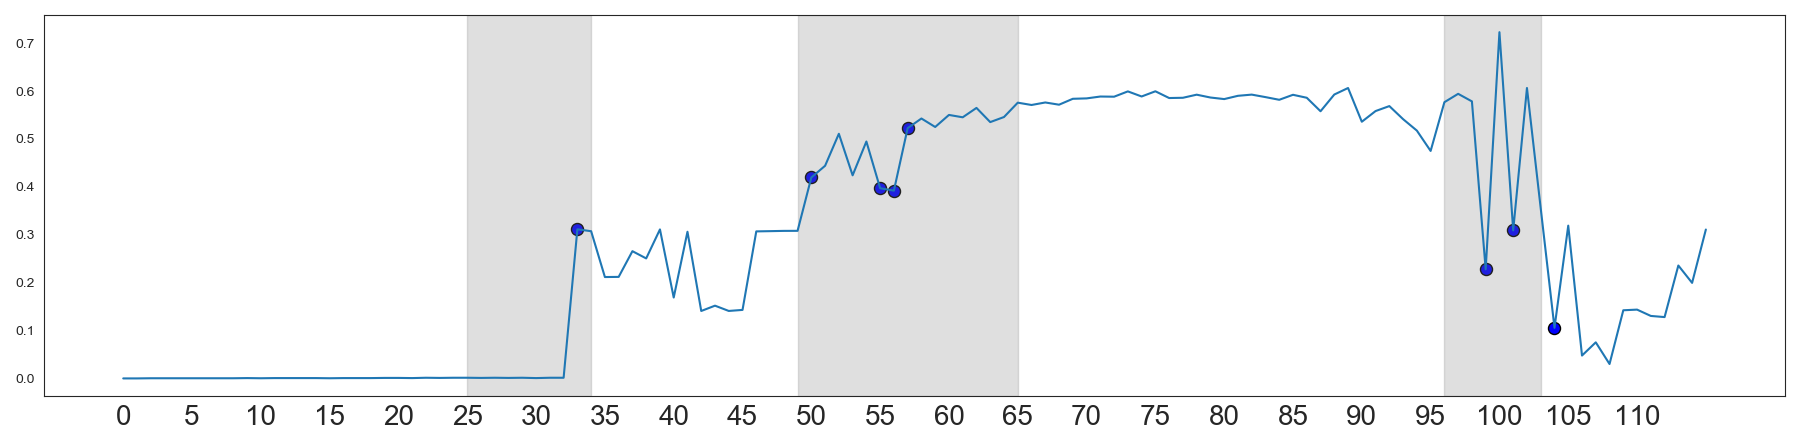
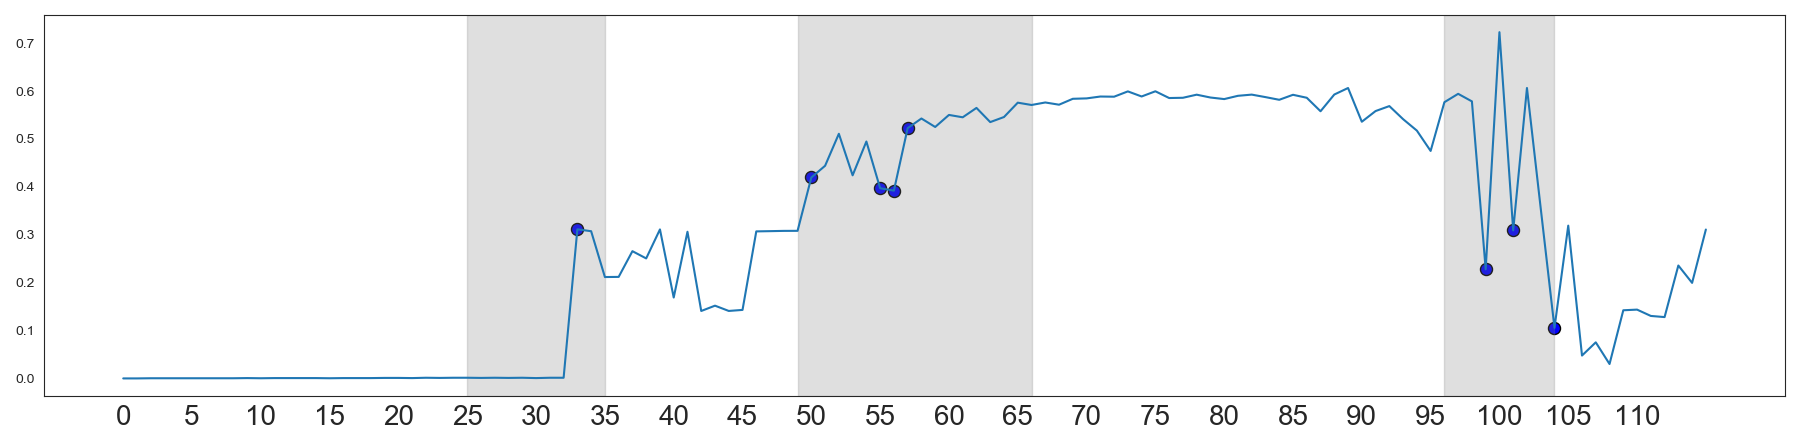
redo extrap figures

Changed region(s): [[0.84, 0.0291, 0.8711, 0.9036], [0.56, 0.0291, 0.5911, 0.9036], [0.3111, 0.0291, 0.3422, 0.9036]]

diff --git a/Emily Code/8.4.20_node_identification.py b/Emily Code/8.4.20_node_identification.py
@@ -298,27 +298,27 @@ xticks = np.arange(0,115,5)
 fig, ax = plt.subplots(figsize = (18,4.5))
 ax.plot(pval_849)
 ax.scatter(mutation_x, [pval_849[i] for i in mutation_x], c = 'blue', s = 75, edgecolor = 'k')
-ax.axvspan(25, 34, alpha = 0.25, color = 'grey')
-ax.axvspan(49, 65, alpha = 0.25, color='grey')
-ax.axvspan(96, 103, alpha = 0.25, color='grey')
+ax.axvspan(25, 35, alpha = 0.25, color = 'grey')
+ax.axvspan(49, 66, alpha = 0.25, color='grey')
+ax.axvspan(96, 104, alpha = 0.25, color='grey')
 plt.xticks(ticks = xticks, fontsize = 20)
 plt.tight_layout()
 
 fig, ax = plt.subplots(figsize = (18,4.5))
 ax.plot(pval_1146, c = 'darkorange')
 ax.scatter(mutation_x, [pval_1146[i] for i in mutation_x], c = 'orange', s = 75, edgecolor = 'k')
-ax.axvspan(25, 34, alpha = 0.25, color = 'grey')
-ax.axvspan(49, 65, alpha = 0.25, color='grey')
-ax.axvspan(96, 103, alpha = 0.25, color='grey')
+ax.axvspan(25, 35, alpha = 0.25, color = 'grey')
+ax.axvspan(49, 66, alpha = 0.25, color='grey')
+ax.axvspan(96, 104, alpha = 0.25, color='grey')
 plt.xticks(ticks = xticks, fontsize = 20)
 plt.tight_layout()
 
 fig, ax = plt.subplots(figsize = (18,4.5))
 ax.plot(pval_1899, c = 'green')
 ax.scatter(mutation_x, [pval_1899[i] for i in mutation_x], c = 'green', s = 75, edgecolor = 'k')
-ax.axvspan(25, 34, alpha = 0.25, color = 'grey')
-ax.axvspan(49, 65, alpha = 0.25, color='grey')
-ax.axvspan(96, 103, alpha = 0.25, color='grey')
+ax.axvspan(25, 35, alpha = 0.25, color = 'grey')
+ax.axvspan(49, 66, alpha = 0.25, color='grey')
+ax.axvspan(96, 104, alpha = 0.25, color='grey')
 plt.xticks(ticks = xticks, fontsize = 20)
 plt.tight_layout()
 
@@ -326,31 +326,31 @@ plt.tight_layout()
 #%%
 xticks = np.arange(0,115,5)
 fig, ax = plt.subplots(figsize = (18,4.5))
-ax.bar(np.arange(0,115), pval_849_diff)
-ax.scatter(mutation_x_diff, [pval_849_diff[i-1] for i in mutation_x], s = 100, c = 'red', edgecolor = 'k', zorder = 25)
-ax.axvspan(25, 34, alpha = 0.25, color = 'grey')
-ax.axvspan(49, 65, alpha = 0.25, color='grey')
-ax.axvspan(96, 103, alpha = 0.25, color='grey')
+ax.bar(np.arange(1,116), pval_849_diff)
+ax.scatter(mutation_x, [pval_849_diff[i-1] for i in mutation_x], s = 100, c = 'red', edgecolor = 'k', zorder = 25)
+ax.axvspan(25, 35, alpha = 0.25, color = 'grey')
+ax.axvspan(49, 66, alpha = 0.25, color='grey')
+ax.axvspan(96, 104, alpha = 0.25, color='grey')
 plt.xticks(ticks = xticks, fontsize = 20)
 plt.tight_layout()
 
 
 fig, ax = plt.subplots(figsize = (18,4.5))
-ax.bar(np.arange(0,115), pval_1146_diff, color = 'darkorange')
-ax.scatter(mutation_x_diff, [pval_1146_diff[i-1] for i in mutation_x], s = 100, c = 'red', edgecolor = 'k', zorder = 25)
-ax.axvspan(25, 34, alpha = 0.25, color = 'grey')
-ax.axvspan(49, 65, alpha = 0.25, color='grey')
-ax.axvspan(96, 103, alpha = 0.25, color='grey')
+ax.bar(np.arange(1,116), pval_1146_diff, color = 'darkorange')
+ax.scatter(mutation_x, [pval_1146_diff[i-1] for i in mutation_x], s = 100, c = 'red', edgecolor = 'k', zorder = 25)
+ax.axvspan(25, 35, alpha = 0.25, color = 'grey')
+ax.axvspan(49, 66, alpha = 0.25, color='grey')
+ax.axvspan(96, 104, alpha = 0.25, color='grey')
 plt.xticks(ticks = xticks, fontsize = 20)
 plt.tight_layout()
 
 
 fig, ax = plt.subplots(figsize = (18,4.5))
-ax.bar(np.arange(0,115), pval_1899_diff, color = 'green')
-ax.scatter(mutation_x_diff, [pval_1899_diff[i-1] for i in mutation_x], s = 100, c = 'red', edgecolor = 'k', zorder = 25)
-ax.axvspan(25, 34, alpha = 0.25, color = 'grey')
-ax.axvspan(49, 65, alpha = 0.25, color='grey')
-ax.axvspan(96, 103, alpha = 0.25, color='grey')
+ax.bar(np.arange(1,116), pval_1899_diff, color = 'green')
+ax.scatter(mutation_x, [pval_1899_diff[i-1] for i in mutation_x], s = 100, c = 'red', edgecolor = 'k', zorder = 25)
+ax.axvspan(25, 35, alpha = 0.25, color = 'grey')
+ax.axvspan(49, 66, alpha = 0.25, color='grey')
+ax.axvspan(96, 104, alpha = 0.25, color='grey')
 plt.xticks(ticks = xticks, fontsize = 20)
 plt.tight_layout()
 
